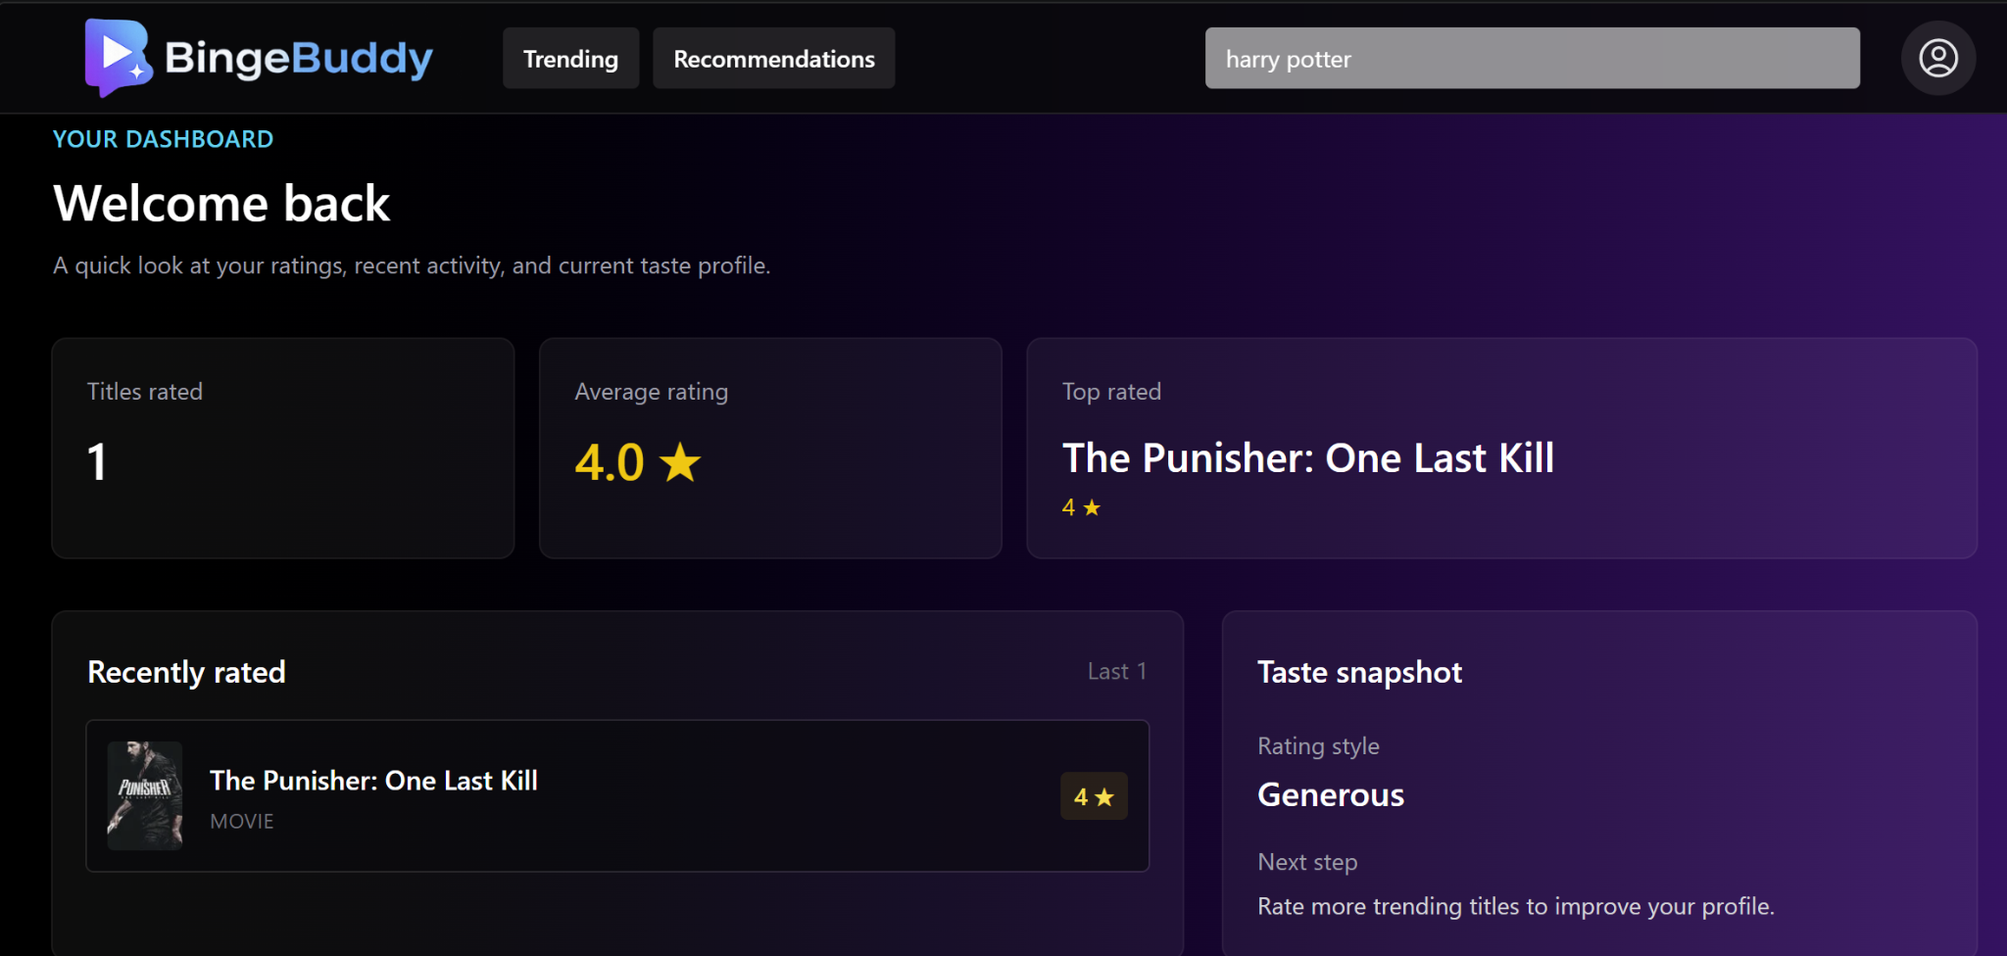
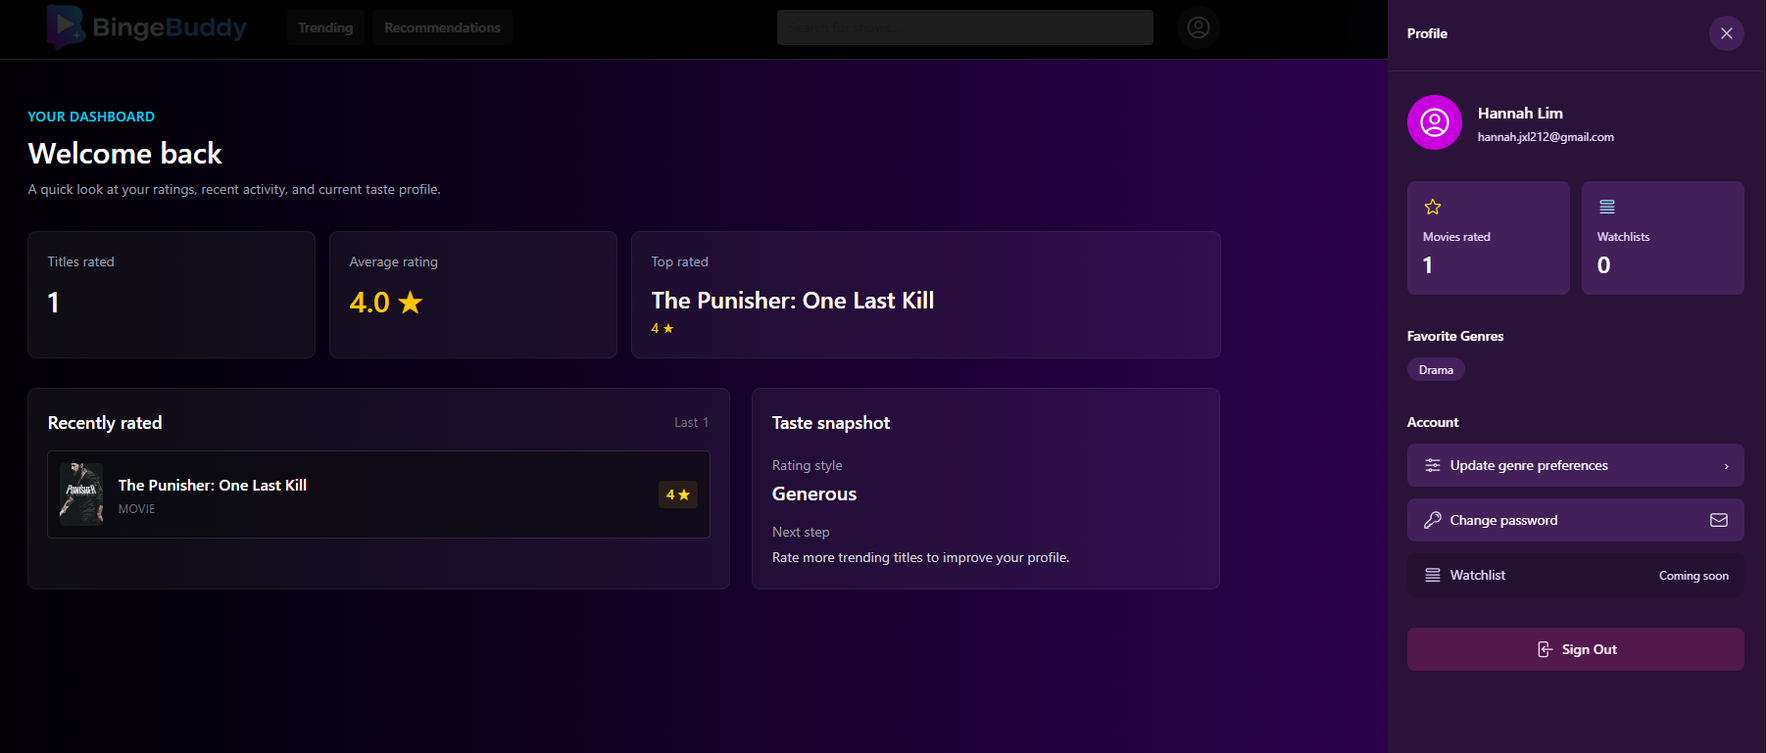
Strengthen portfolio product narratives

diff --git a/script.js b/script.js
@@ -2,36 +2,37 @@ const projects = {
   bingebuddy: {
     title: "BingeBuddy",
     meta: "NUS Orbital Summer Programme · Full-stack recommendation product · 2026",
-    lead: "A movie discovery platform designed to reduce decision fatigue with transparent, preference-driven recommendations.",
-    brief: "Streaming catalogues create a paradox of choice. BingeBuddy narrows the field by collecting lightweight signals from genre preferences and ratings, then returning a focused set of relevant titles. The product acts as a discovery and organisation layer rather than a streaming service.",
+    lead: "A personal movie-discovery workspace that reduces decision fatigue through guided onboarding, controllable recommendations, extensive filtering, and evolving taste insights.",
+    brief: "BingeBuddy helps people move from endless catalogue browsing to a confident choice. Instead of producing another generic list, it creates a focused discovery journey: capture an initial taste profile, refine it through ratings and saved titles, then let users search, filter, sort, shuffle, and understand why a title was recommended. That combination improves first-session relevance, gives users more control over discovery, and creates useful reasons to return as their profile develops.",
     built: [
-      "Content-based recommendations using weighted metadata, TF-IDF, and cosine similarity",
-      "Cold-start onboarding through favourite genres, followed by rating-based personalisation",
-      "Secure accounts, trending discovery, search, ratings, watchlists, and a personal dashboard",
-      "Protected API routes, recommendation caching, fallbacks, and complete loading and error states"
+      "Genre onboarding and this-or-that movie swiping capture preference signals before a user has built a rating history, reducing cold-start friction and accelerating time-to-value",
+      "A focused recommendation workspace with rating- or genre-based personalisation, clear recommendation explanations, genre filters, search, Best match / Highest rated / Newest sorting, Surprise me, and Shuffle",
+      "Ratings and watchlist insights turn activity into a taste profile—including rating patterns, top-rated titles, saved-title count, favourite genre, and most common decade—rewarding continued input and encouraging repeat use",
+      "Content-based recommendations use weighted metadata, TF-IDF, and cosine similarity, supported by secure accounts, caching, fallbacks, and complete loading, empty, and error states"
     ],
     tech: "React, TypeScript, Node.js, Express, Python, pandas, scikit-learn, Supabase Auth and PostgreSQL, Prisma ORM, TMDB API.",
-    context: "Co-developed for the NUS Orbital Summer Programme. The team separated the interface, application logic, storage, external catalogue, and recommendation service so each layer could be tested and improved independently.",
+    context: "Co-developed for the NUS Orbital Summer Programme. The product’s key business advantage is a feedback loop: onboarding improves activation, deep controls help users reach a decision, transparent recommendation logic builds trust, and taste insights make every rating or saved title feel valuable. The architecture separates the interface, application logic, storage, external catalogue, and recommendation service so each layer can evolve independently.",
     links: [{ label: "View repository ↗", href: "https://github.com/B3nji11/BingeBuddy" }],
     gallery: [
-      { src: "assets/bingebuddy-landing.png", alt: "BingeBuddy landing page", caption: "A clear product entry point before authentication" },
-      { src: "assets/bingebuddy-dashboard.png", alt: "BingeBuddy personal dashboard", caption: "Ratings and taste signals brought into one view" },
-      { src: "assets/bingebuddy-details.png", alt: "BingeBuddy movie details interface", caption: "Shared detail view with ratings and watchlist actions" }
+      { src: "assets/bingebuddy-onboarding.png", alt: "BingeBuddy genre preference onboarding", caption: "Genre onboarding creates a useful taste signal from the first session", wide: true },
+      { src: "assets/bingebuddy-recommendations.png", alt: "BingeBuddy recommendation workspace with basis, search, sorting, and genre filters", caption: "Transparent recommendation basis plus extensive controls for finding the right title", wide: true },
+      { src: "assets/bingebuddy-dashboard.png", alt: "BingeBuddy ratings dashboard and taste snapshot", caption: "Ratings become visible progress and a developing taste profile", wide: true },
+      { src: "assets/bingebuddy-watchlist-insights.png", alt: "BingeBuddy watchlist insights showing saved titles, top genre, and most common decade", caption: "Saved titles become useful statistics instead of a passive list", wide: true }
     ]
   },
   pawductivity: {
     title: "Pawductivity",
     meta: "Ngee Ann Polytechnic · Mobile application project · Top 10%",
     lead: "A gamified productivity app that turns completing tasks into caring for a virtual pet.",
-    brief: "Pawductivity was designed around a familiar student problem: task tools can feel functional but easy to abandon. The team paired task management with a simple reward loop so progress in the real world creates visible progress in the app.",
+    brief: "Pawductivity addresses the intention-action gap: conventional task managers organise work but often do little to sustain motivation. By tying completed tasks to caring for and customising a virtual pet, the app turns progress into an immediate emotional and visual reward. The differentiator is not gamification added beside productivity; it is a connected loop designed to make planning, focus, and returning tomorrow feel worthwhile.",
     built: [
-      "Task creation, priority, filtering, due dates, editing, and time tracking",
-      "A virtual pet, in-app currency, shop inventory, and daily challenges",
-      "Progress analytics, login streaks, motivational content, reminders, and dark mode",
-      "Profiles and friend features backed by persistent cloud data"
+      "Task creation, priority, filtering, due dates, editing, and time tracking provide the functional core students expect",
+      "Completed work earns currency for pet care and customisation, connecting real-world effort to visible in-app progress",
+      "Daily challenges, login streaks, reminders, progress analytics, and motivational content create multiple retention loops around consistent habits",
+      "Profiles, friend features, dark mode, and persistent cloud data support personalisation, social accountability, and continuity across sessions"
     ],
     tech: "Android Studio, Firebase, Android notifications and alarms, ZenQuotes API, MPAndroidChart.",
-    context: "A student-led team project placed in the top 10% and was later supported by Ngee Ann Polytechnic for deployment. A version of the app was released on Google Play.",
+    context: "A student-led team project placed in the top 10% and was later supported by Ngee Ann Polytechnic for deployment, with a version released on Google Play. Its product value lies in stronger engagement than a utility-only checklist: each productivity action advances the pet experience, giving users an immediate payoff while reinforcing longer-term habits.",
     links: [],
     gallery: [
       { src: "assets/pawductivity-game.png", alt: "Pawductivity virtual pet room", caption: "The pet and reward loop at the centre of the experience", contain: true },
@@ -43,15 +44,15 @@ const projects = {
     title: "Ecolume",
     meta: "Ngee Ann Polytechnic · Final year capstone · Top 10%",
     lead: "A web-based compost monitoring platform that turns live sensor data into practical decisions for compost technicians.",
-    brief: "Built for TinkerThings, the capstone explored how live IoT data, predictive analytics, and automation could improve compost operations. The product focused on helping technicians monitor conditions, manage nutrient records, detect anomalies, and act on changing compost quality.",
+    brief: "Built for TinkerThings, Ecolume brings fragmented compost work into one operational layer. Live readings show what is happening now; prediction and anomaly detection flag what may need attention; nutrient logs and image history preserve field evidence; and two AI assistants make technical data easier to interrogate. The result is faster diagnosis, less manual record chasing, and more consistent decisions across tanks, sites, and team members.",
     built: [
-      "Live and historical monitoring for nutrient and environmental conditions",
-      "NPK prediction, forecasting, anomaly detection, and model comparison workflows",
-      "Tank-specific nutrient logging, image comparison, interactive visual exploration, and dashboards",
-      "Generative AI and exploratory data analysis assistants for field questions and uploaded data"
+      "Live and historical monitoring gives technicians a shared view of nutrient and environmental conditions across tanks and locations",
+      "NPK prediction, forecasting, anomaly detection, and model comparison workflows turn sensor streams into forward-looking decision support",
+      "Tank-specific nutrient entries create a structured operational record, while the image gallery enables visual comparison of compost condition over time",
+      "A multimodal generative-AI chatbot supports field questions using text, voice, and images, while an exploratory-data-analysis chatbot helps users interrogate uploaded datasets without manually building every chart"
     ],
     tech: "Python, pandas, scikit-learn, Streamlit, Power BI, HTML, CSS, JavaScript, Bootstrap, Chart.js, Firebase, Google Sheets and PostgreSQL integrations.",
-    context: "The final year project placed in the top 10%. Hannah focused on composting features and worked with live data from multiple locations. The team documented limitations around sensor quality, short time series, and model generalisation rather than overstating performance.",
+    context: "The final year project placed in the top 10%. I focused on the composting workflows and worked with live data from multiple locations. Ecolume stands out by joining monitoring, prediction, documentation, visual evidence, and conversational analysis in one workflow—making advanced data capabilities usable for day-to-day operations. We also documented limitations around sensor quality, short time series, and model generalisation rather than overstating performance.",
     links: [],
     gallery: [
       { src: "assets/ecolume-live-dashboard.png", alt: "Ecolume live compost dashboard", caption: "Live sensor values and trends by tank" },
@@ -60,18 +61,18 @@ const projects = {
     ]
   },
   analytics: {
-    title: "Applied Analytics",
-    meta: "Data mining · Machine learning · NLP · Explainable AI",
-    lead: "A portfolio of analytical work that moves from discovering structure in data to explaining model behaviour.",
-    brief: "These projects developed a practical understanding of how to frame analytical questions, prepare imperfect data, compare models, and communicate the result. The emphasis was not only predictive performance, but also whether the method and explanation matched the problem.",
+    title: "Applied AI & Analytics",
+    meta: "Prediction · Data mining · NLP · Computer vision · Explainable AI",
+    lead: "A cross-domain body of work showing how I select and connect AI methods across structured data, language, images, and time-dependent problems.",
+    brief: "The common thread across these projects is model-to-decision fit. I have used classification and regression to predict outcomes, clustering and association rules to reveal structure, time-series methods to understand change, recommendation systems to personalise choices, and NLP and computer vision to work with unstructured inputs. Explainability and evaluation sit alongside modelling so outputs can support a decision—not merely produce a score.",
     built: [
-      "Customer and behavioural segmentation with K-means and hierarchical clustering",
-      "Association-rule mining to surface relationships in categorical data",
-      "Classification workflows with tree-based models and systematic evaluation",
-      "Local and global model explanations using SHAP and feature-effect analysis, alongside NLP work"
+      "Predictive modelling across classification, regression, ensemble methods, and systematic model evaluation",
+      "Customer and behavioural segmentation with K-means and hierarchical clustering, plus association-rule mining to surface hidden relationships",
+      "Forecasting and anomaly-detection workflows for operational and time-dependent data",
+      "NLP, recommendation, and computer-vision work for unstructured and personalised use cases, with local and global explanations using SHAP and feature-effect analysis"
     ],
-    tech: "Python, pandas, NumPy, scikit-learn, LightGBM, SHAP, Matplotlib, Seaborn, Plotly and Jupyter notebooks.",
-    context: "Applied Analytics coursework completed during the Diploma in Data Science. The selected visuals show clustering decisions, model structure, and instance-level explanations rather than only final scores.",
+    tech: "Python, pandas, NumPy, scikit-learn, LightGBM, SHAP, NLP and computer-vision libraries, Matplotlib, Seaborn, Plotly and Jupyter notebooks.",
+    context: "The business value is versatility across the model lifecycle: frame the decision, prepare imperfect data, choose an appropriate baseline, compare and tune models, evaluate trade-offs, explain behaviour, and translate the result into usable decision support. The selected visuals highlight interpretable structure and instance-level reasoning rather than only final scores.",
     links: [],
     gallery: [
       { src: "assets/analytics-clustering.png", alt: "Three-dimensional clustering visualisation", caption: "Exploring customer structure through unsupervised learning" },
@@ -81,16 +82,16 @@ const projects = {
   noahsark: {
     title: "Noah’s Ark",
     meta: "#HACK2024 · Community technology",
-    lead: "A youth engagement and Bible study app developed with stakeholders who work directly with young people.",
-    brief: "At #HACK2024, the team worked on a product concept that could support events, study materials, and community resources in one place. The project was grounded in conversations with Singapore Youth For Christ and Digital Wesley rather than built as an isolated hackathon demo.",
+    lead: "A youth engagement and Bible study app designed to bring event participation, study materials, and community resources into one accessible experience.",
+    brief: "Noah’s Ark responds to a practical engagement challenge: young people, leaders, event information, and study resources can become scattered across channels. Bringing them into one product creates a clearer path from first contact to ongoing participation, while giving community partners a shared digital touchpoint for content and engagement.",
     built: [
-      "A product concept for event participation, study content, and shared youth resources",
-      "Rapid framing and prototyping within the constraints of a hackathon",
-      "Stakeholder feedback with the Singapore Youth For Christ team, including its director Richard",
-      "A foundation for continued support and discussion after the event"
+      "A unified product concept for event participation, Bible study content, and shared youth resources",
+      "A lower-friction journey from discovering an activity to accessing follow-up material and staying connected",
+      "Rapid framing and prototyping at #HACK2024, followed by weekly product development and stakeholder review",
+      "Direct feedback from Singapore Youth For Christ—including its director, Richard—and Digital Wesley"
     ],
     tech: "Rapid product discovery, collaborative prototyping, stakeholder communication, and team delivery.",
-    context: "Singapore Youth For Christ and Digital Wesley were key stakeholders and continued supporting the idea after the hackathon. The project shows Hannah’s interest in building with communities, not only for them.",
+    context: "After #HACK2024, we developed the project as far as we could over the following year through weekly meetings with Singapore Youth For Christ and Digital Wesley. Because of our team’s time constraints, the partners later outsourced the remaining development. That year-long continuation helped move the idea beyond a prototype and kept product decisions anchored to operational and community needs.",
     links: [],
     gallery: [
       { src: "assets/noahs-ark-team.jpg", alt: "Noah's Ark team at HACK 2024", caption: "The team at #HACK2024" },
@@ -142,9 +143,10 @@ const fillLinks = (node, values) => {
 };
 
 const fillGallery = (node, images) => {
-  node.replaceChildren(...images.map(({ src, alt, caption, contain }) => {
+  node.replaceChildren(...images.map(({ src, alt, caption, contain, wide }) => {
     const figure = document.createElement("figure");
     if (contain) figure.dataset.contain = "true";
+    if (wide) figure.dataset.wide = "true";
     const image = document.createElement("img");
     image.src = src;
     image.alt = alt;
@@ -168,6 +170,8 @@ const openProject = (projectKey) => {
   fillList(dialog.querySelector("[data-case-built]"), project.built);
   fillLinks(dialog.querySelector("[data-case-links]"), project.links);
   fillGallery(dialog.querySelector("[data-case-gallery]"), project.gallery);
+  dialog.dataset.project = projectKey;
+  dialog.scrollTop = 0;
   dialog.showModal();
   document.body.classList.add("dialog-open");
 };

diff --git a/index.html b/index.html
@@ -92,12 +92,12 @@
         <div class="project-grid">
           <article class="project project-featured project-binge reveal">
             <div class="project-media">
-              <img src="assets/bingebuddy-landing.png" alt="BingeBuddy movie recommendation landing page" loading="eager" />
+              <img src="assets/bingebuddy-recommendations.png" alt="BingeBuddy personalised recommendation workspace" loading="eager" />
             </div>
             <div class="project-copy">
               <div class="project-meta"><span>01</span><span>NUS Orbital · 2026</span></div>
               <h3>BingeBuddy</h3>
-              <p class="project-lead">A full-stack movie discovery product that turns preferences and ratings into focused recommendations.</p>
+              <p class="project-lead">A personal movie-discovery workspace that shortens time-to-choice through guided onboarding, deep filters, transparent recommendations, and taste insights.</p>
               <ul class="project-tags" aria-label="Technologies used">
                 <li>React</li><li>Node + Express</li><li>Python</li><li>Supabase</li><li>TF-IDF</li>
               </ul>
@@ -109,7 +109,7 @@
             <div class="project-copy">
               <div class="project-meta"><span>02</span><span>Mobile product · Top 10%</span></div>
               <h3>Pawductivity</h3>
-              <p class="project-lead">A gamified productivity app where completing work earns rewards for a virtual pet.</p>
+              <p class="project-lead">A gamified productivity app that turns task completion into a rewarding pet-care loop designed to strengthen daily habits.</p>
               <ul class="project-tags"><li>Android</li><li>Firebase</li><li>REST APIs</li></ul>
               <button class="text-link" type="button" data-project="pawductivity">Explore case study <span aria-hidden="true">↗</span></button>
             </div>
@@ -125,7 +125,7 @@
             <div class="project-copy">
               <div class="project-meta"><span>03</span><span>Industry capstone · Top 10%</span></div>
               <h3>Ecolume</h3>
-              <p class="project-lead">A live compost monitoring platform that combines IoT data, predictive models, and decision tools.</p>
+              <p class="project-lead">A compost operations hub that unifies live IoT monitoring, predictive models, field records, visual evidence, and AI-assisted decision support.</p>
               <ul class="project-tags"><li>Python</li><li>Machine learning</li><li>Streamlit</li><li>Firebase</li></ul>
               <button class="text-link" type="button" data-project="ecolume">Explore case study <span aria-hidden="true">↗</span></button>
             </div>
@@ -138,8 +138,8 @@
             </div>
             <div class="project-copy">
               <div class="project-meta"><span>04</span><span>Applied analytics</span></div>
-              <h3>From patterns to explanations</h3>
-              <p class="project-lead">A body of work spanning data mining, machine learning, NLP, and explainable AI.</p>
+              <h3>Applied AI across the model lifecycle</h3>
+              <p class="project-lead">A cross-domain AI portfolio spanning prediction, segmentation, forecasting, language, vision, recommendation, and explainability.</p>
               <ul class="project-tags"><li>Scikit-learn</li><li>LightGBM</li><li>SHAP</li><li>Clustering</li></ul>
               <button class="text-link" type="button" data-project="analytics">Explore case study <span aria-hidden="true">↗</span></button>
             </div>
@@ -170,7 +170,7 @@
             <p class="about-intro">I’m most interested in the space where AI, software, and user needs meet.</p>
             <p>
               My work ranges from recommendation engines and live data products to enterprise search workflows and community technology.
-              Across those contexts, I enjoy understanding the real problem, choosing the right level of technical complexity, and making the result clear enough for people to trust and use.
+              Across those contexts, I’m passionate about turning emerging technologies into practical products, designing for real adoption, and understanding how technology can drive meaningful and lasting change.
             </p>
             <p>
               I’m currently pursuing a Bachelor of Business AI Systems with Honours at the National University of Singapore, with a minor in Mathematics.
@@ -216,7 +216,7 @@
               <p>National University of Singapore</p>
               <h3>Business AI Systems Undergraduate</h3>
             </div>
-            <p class="timeline-summary">Co-developed BingeBuddy, built a full-stack gym reservation platform for hall residents, and led operations, marketing, and finance for a 32-member volunteering team in rural Laos.</p>
+            <p class="timeline-summary">Co-developed BingeBuddy and built a full-stack gym reservation platform for hall residents. As Secretary-Treasurer for OCIP Laos, I led operations, marketing, and finance for a 32-member volunteering team, raising almost US$30,000 through three fundraisers and securing 20 sponsorships and partnerships.</p>
           </article>
         </div>
       </section>
@@ -233,7 +233,7 @@
             <article class="skill-block reveal">
               <span>01</span>
               <h3>Applied AI & data</h3>
-              <p>Python, scikit-learn, pandas, NumPy, NLP, recommendation systems, clustering, forecasting, computer vision, model evaluation</p>
+              <p>Python, scikit-learn, pandas, NumPy, predictive modelling, classification, regression, ensemble methods, clustering, anomaly detection, time-series forecasting, NLP, recommendation systems, computer vision, feature engineering, explainable AI, model evaluation</p>
             </article>
             <article class="skill-block reveal">
               <span>02</span>

diff --git a/styles.css b/styles.css
@@ -973,6 +973,17 @@ h1 em {
   background: #14141b;
 }
 
+.dialog-gallery figure[data-wide="true"] {
+  grid-column: 1 / -1;
+}
+
+.dialog-gallery figure[data-wide="true"] img {
+  height: auto;
+  max-height: none;
+  object-fit: contain;
+  background: #101014;
+}
+
 .dialog-gallery figcaption {
   padding: 10px 13px 12px;
   color: #65666b;
@@ -1253,6 +1264,10 @@ h1 em {
 
   .dialog-gallery img {
     height: 300px;
+  }
+
+  .dialog-gallery figure[data-wide="true"] img {
+    height: auto;
   }
 
   .dialog-details {
